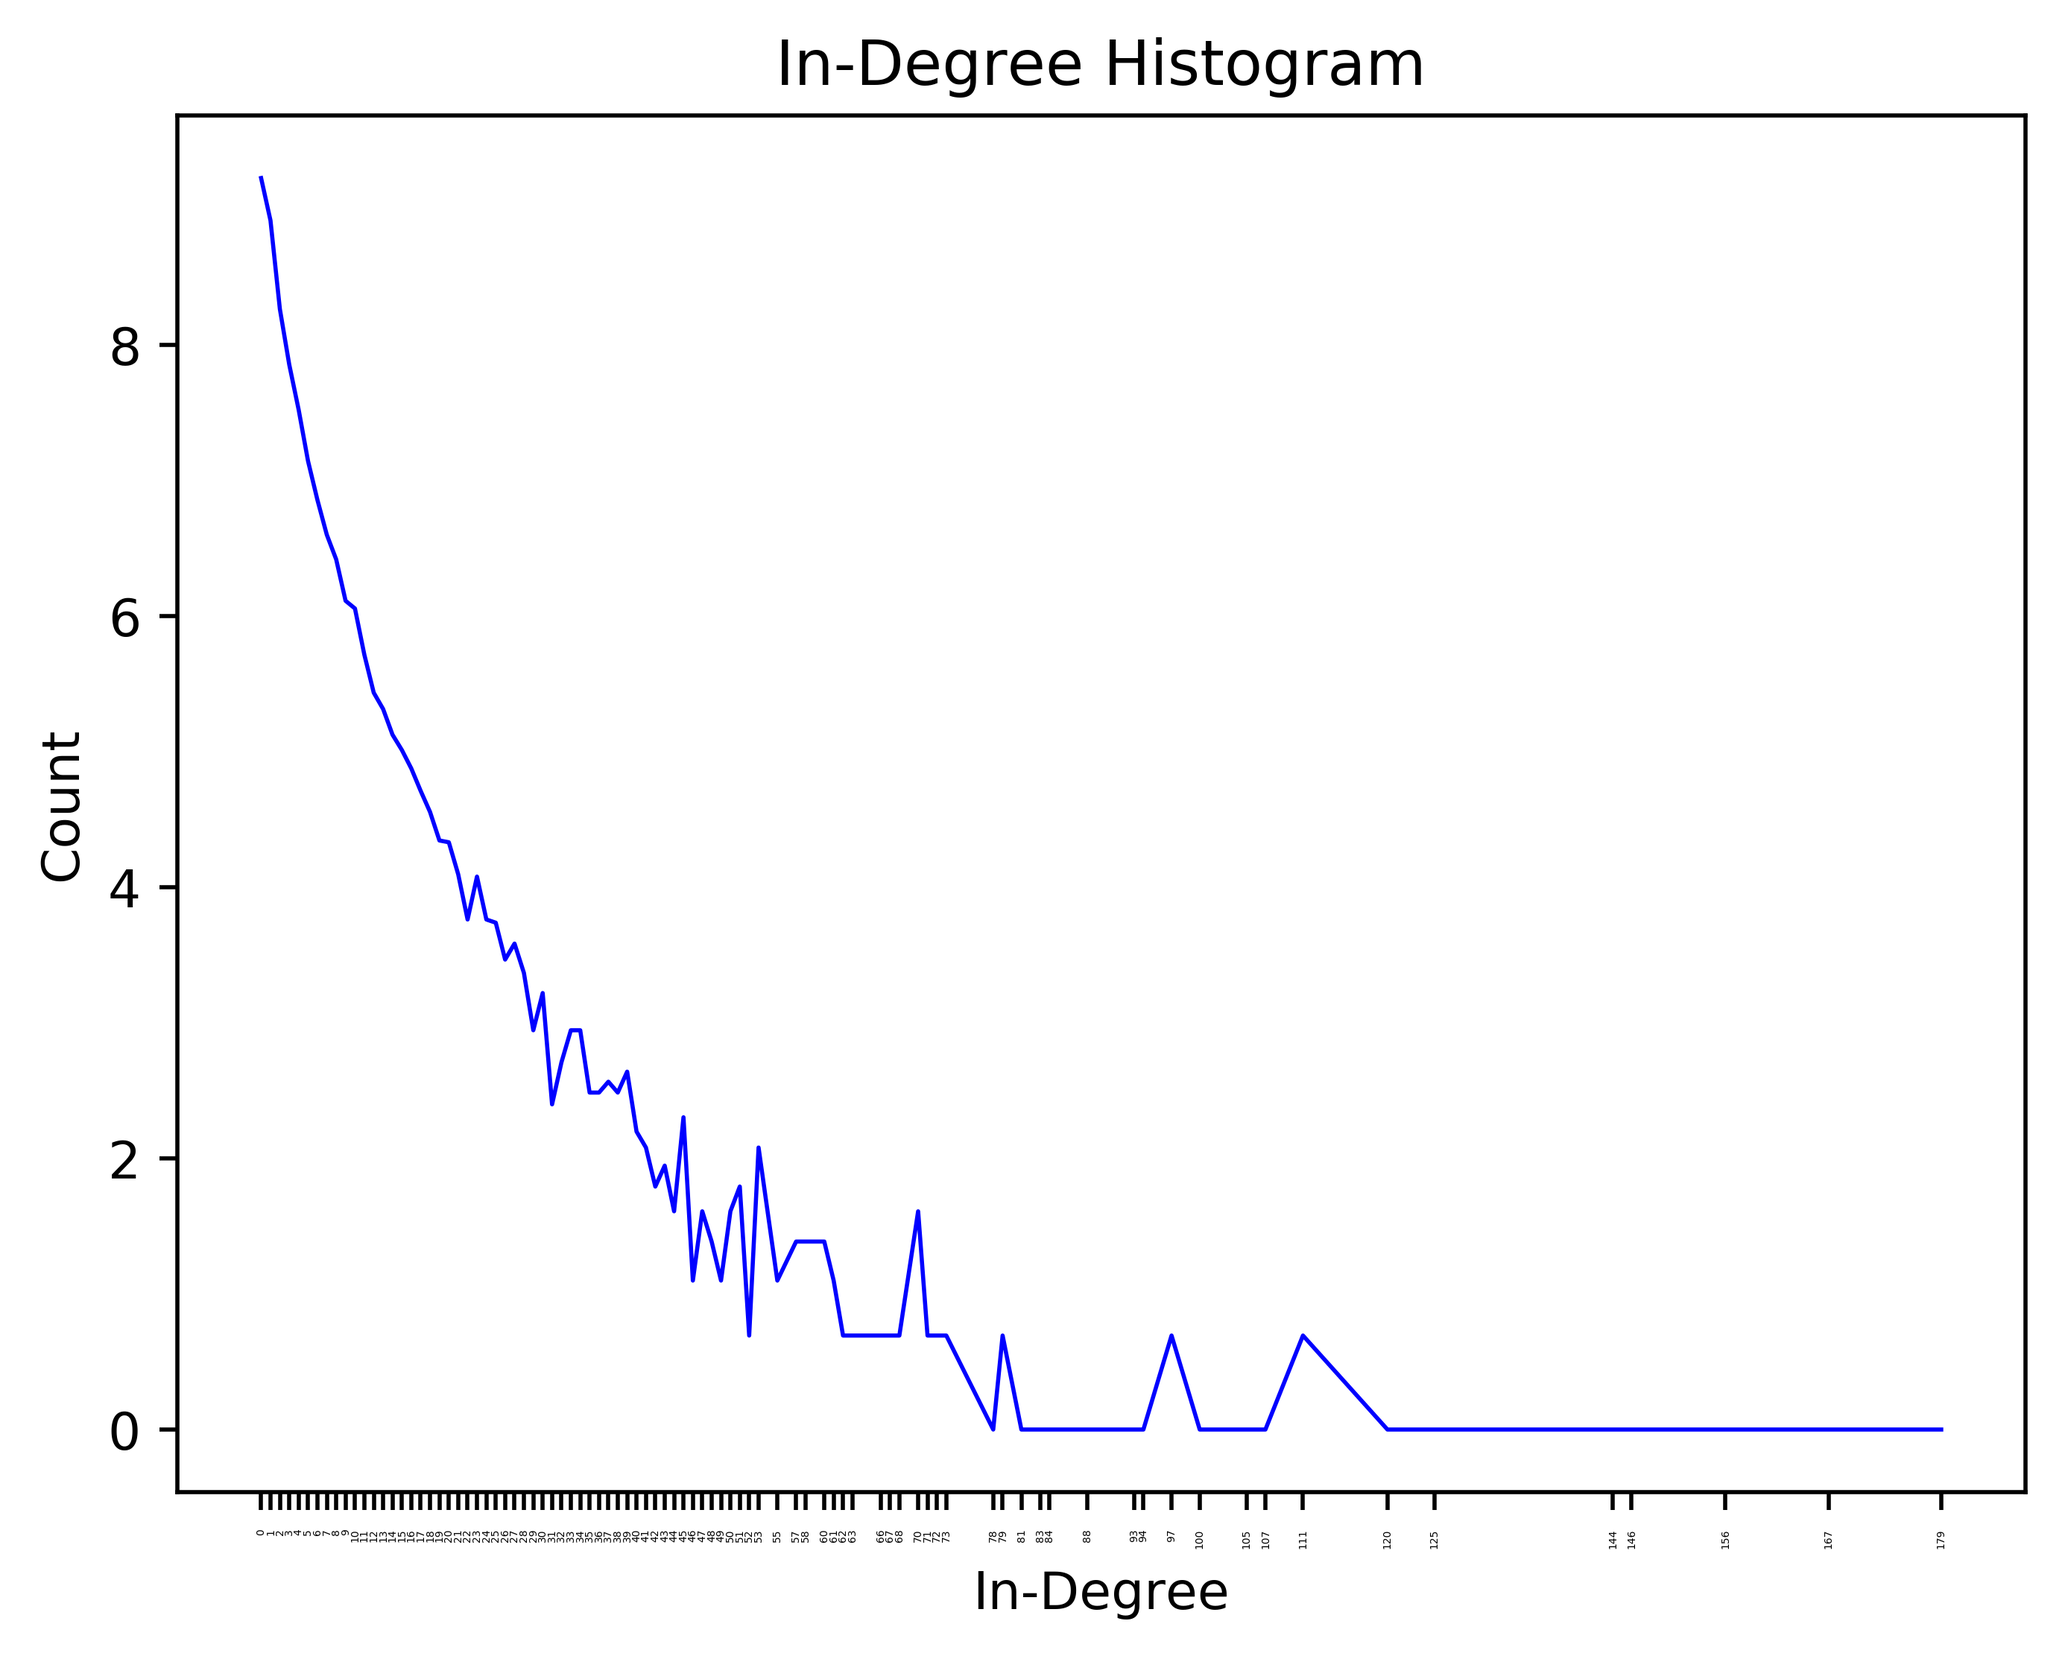
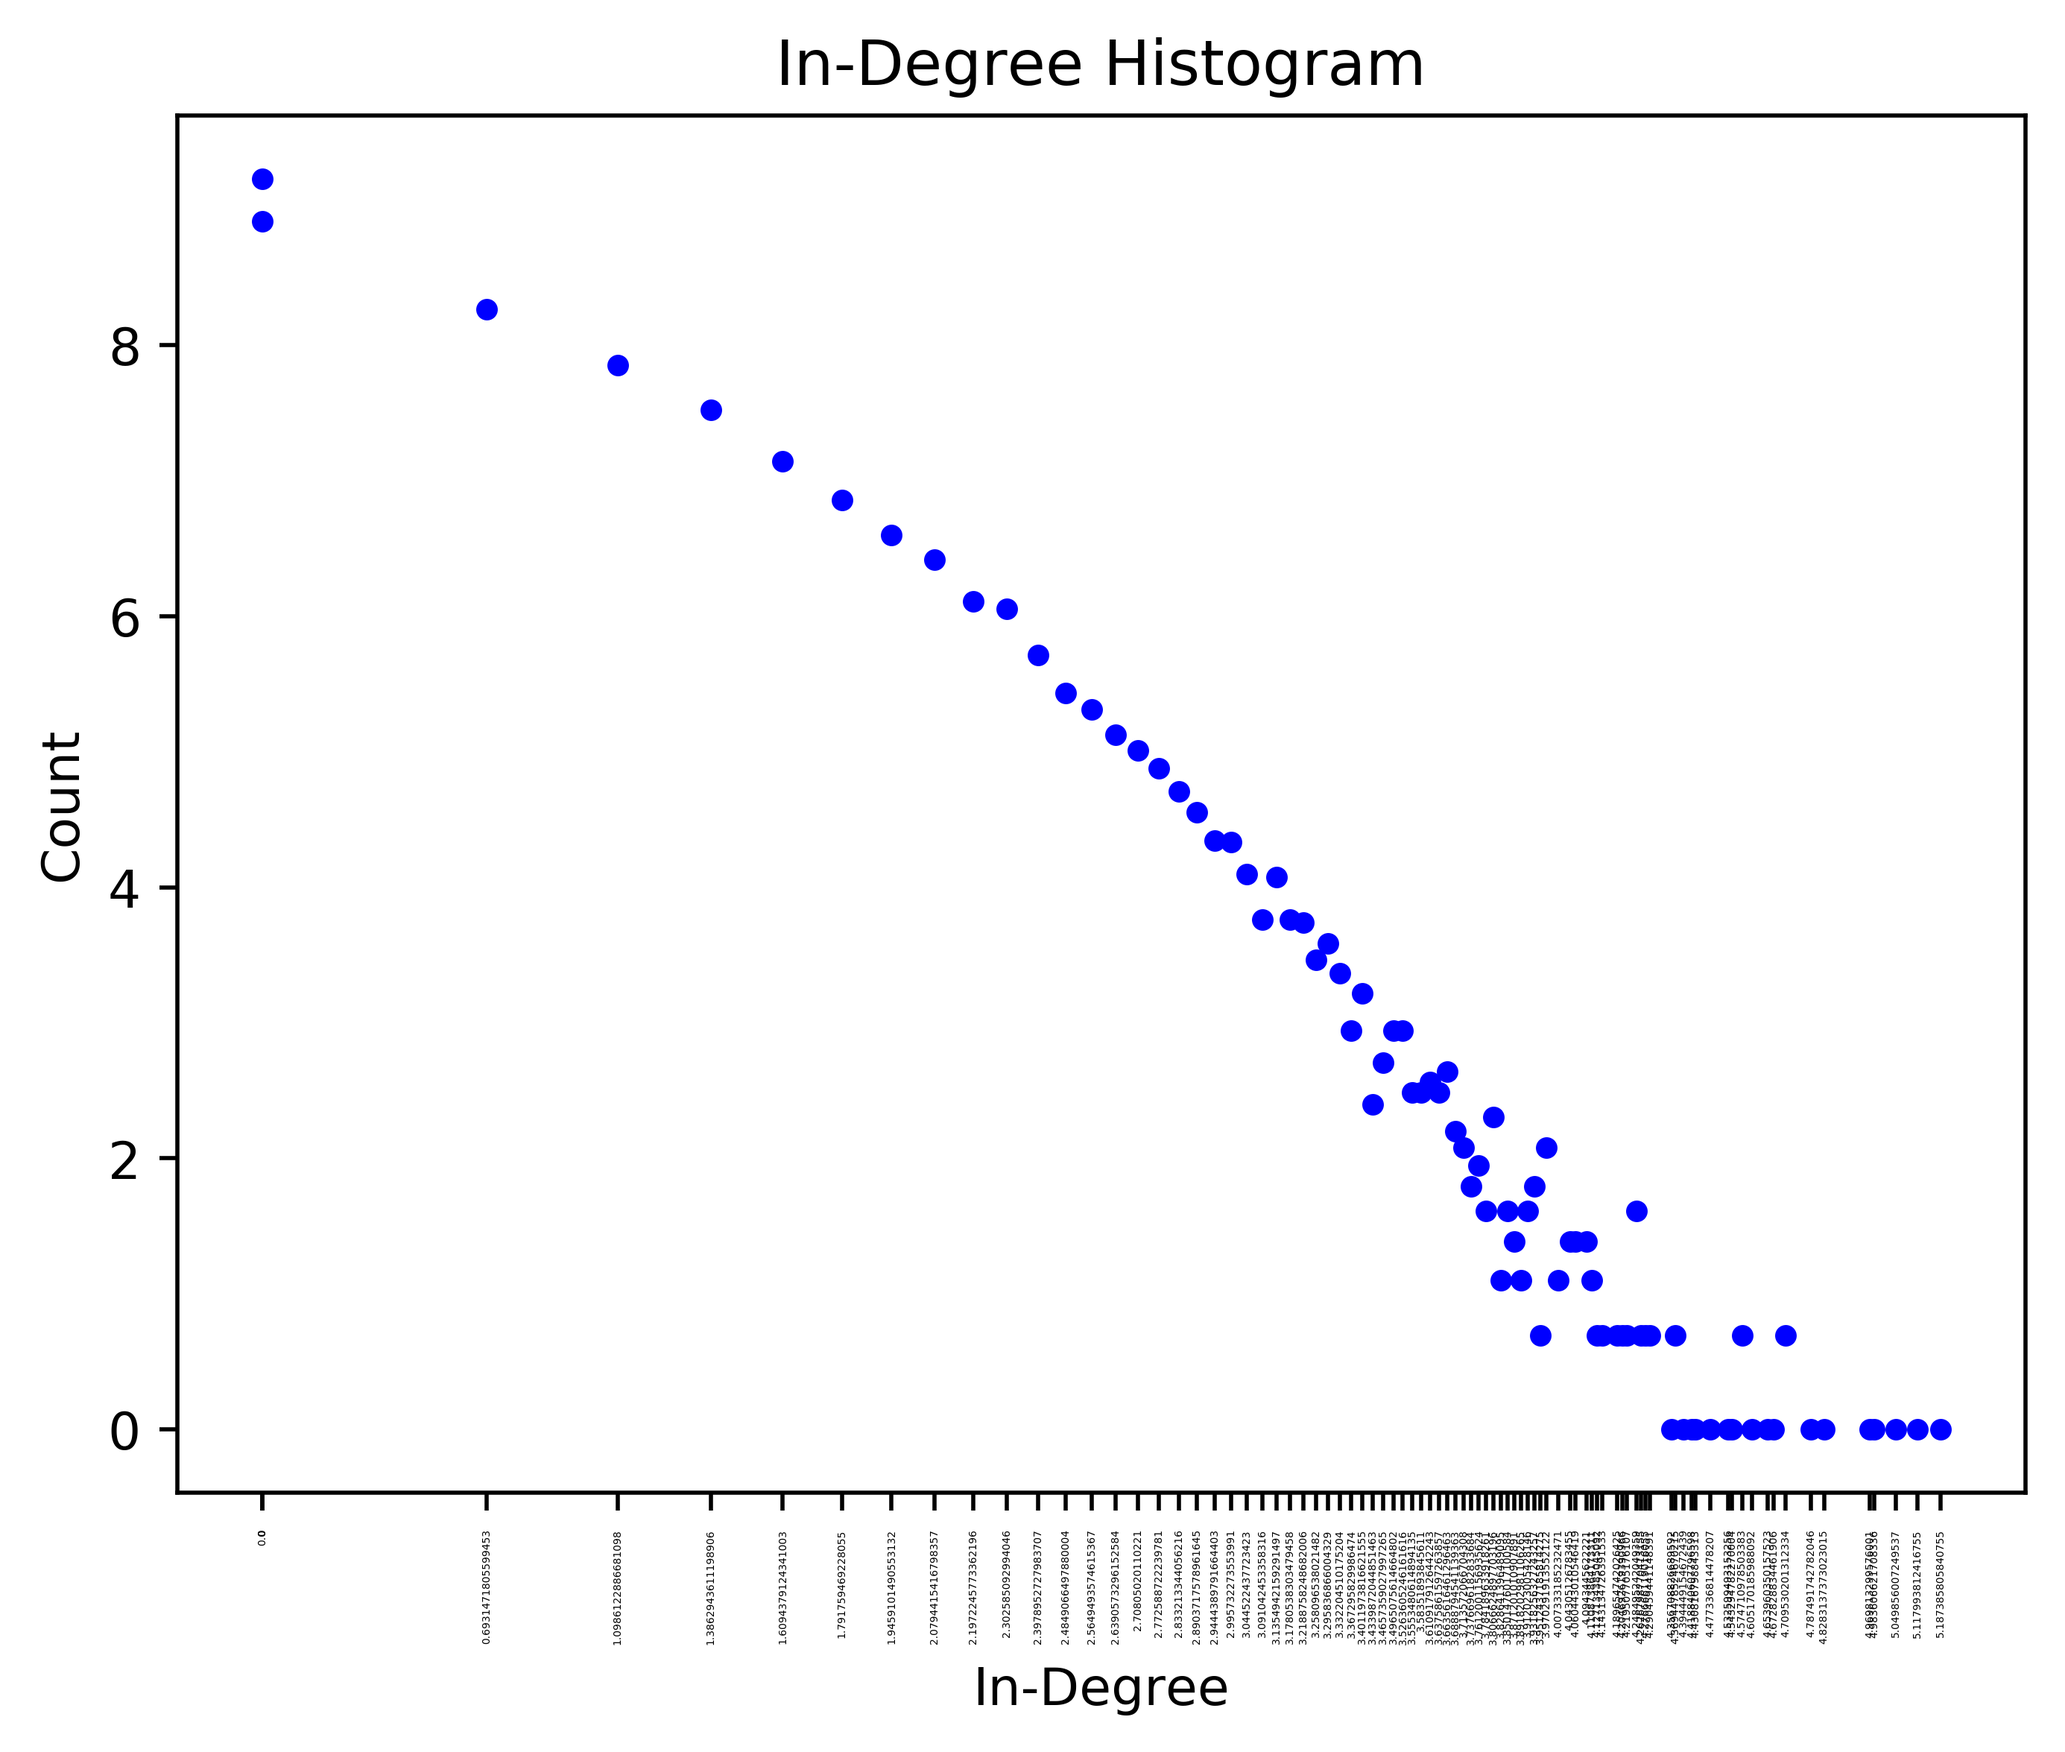
Actually fixes merge conflict

diff --git a/case_case.py b/case_case.py
@@ -24,51 +24,51 @@ print('Average out_degree', G.average_out_degree())
 # print_landmark_cases(custom_centrality, G, 'Custom centrality')
 # print_common_cases()
 
-# plot_distribution(fetch_log_scale(G.in_degree_distribution()), 'In-Degree', 'graph_plots/power_law_distribution/in_degree.png', fontSize=2, dpi=500, plot_type="line")
-# plot_distribution(fetch_log_scale(G.out_degree_distribution()), 'Out-Degree', 'graph_plots/power_law_distribution/out_degree.png', fontSize=2, dpi=500, plot_type="line")
+# plot_distribution(fetch_log_scale(G.in_degree_distribution()), 'In-Degree', 'graph_plots/power_law_distribution/in_degree.png', fontSize=2, dpi=500, plot_type="scatter")
+# plot_distribution(fetch_log_scale(G.out_degree_distribution()), 'Out-Degree', 'graph_plots/power_law_distribution/out_degree.png', fontSize=2, dpi=500, plot_type="scatter")
 
-unfrozen_graph = nx.Graph(G)
-unfrozen_graph.remove_edges_from(unfrozen_graph.selfloop_edges())
+# unfrozen_graph = nx.Graph(G)
+# unfrozen_graph.remove_edges_from(unfrozen_graph.selfloop_edges())
 
-core_number = nx.core_number(unfrozen_graph)
-core_number_sorted = sorted(core_number.items(), key=lambda kv: kv[1], reverse=True)[:50]
-for case_id, value in core_number_sorted:
-    print(case_id, "\t", CASE_ID_TO_NAME_MAPPING[case_id], "\t", value)
-print("k_core")
-k_core = nx.k_core(unfrozen_graph)
-# k_core_sorted = sorted(k_core.items(), key=lambda kv: kv[1], reverse=True)[:50]
-for _ in k_core.nodes():
-    print(_, "\t", CASE_ID_TO_NAME_MAPPING[_])
-print("k_shell")
-k_shell = nx.k_shell(unfrozen_graph)
-for _ in k_shell.nodes():
-    print(_, "\t", CASE_ID_TO_NAME_MAPPING[_])
-print("k_crust")
-k_crust = nx.k_crust(unfrozen_graph)
-for _ in k_crust.nodes():
-    print(_, "\t", CASE_ID_TO_NAME_MAPPING[_])
-print("k_corona")
-k_corona = nx.k_corona(unfrozen_graph, k=10)
-for _ in k_corona.nodes():
-    print(_, "\t", CASE_ID_TO_NAME_MAPPING[_])
+# core_number = nx.core_number(unfrozen_graph)
+# core_number_sorted = sorted(core_number.items(), key=lambda kv: kv[1], reverse=True)[:50]
+# for case_id, value in core_number_sorted:
+#     print(case_id, "\t", CASE_ID_TO_NAME_MAPPING[case_id], "\t", value)
+# print("k_core")
+# k_core = nx.k_core(unfrozen_graph)
+# # k_core_sorted = sorted(k_core.items(), key=lambda kv: kv[1], reverse=True)[:50]
+# for _ in k_core.nodes():
+#     print(_, "\t", CASE_ID_TO_NAME_MAPPING[_])
+# print("k_shell")
+# k_shell = nx.k_shell(unfrozen_graph)
+# for _ in k_shell.nodes():
+#     print(_, "\t", CASE_ID_TO_NAME_MAPPING[_])
+# print("k_crust")
+# k_crust = nx.k_crust(unfrozen_graph)
+# for _ in k_crust.nodes():
+#     print(_, "\t", CASE_ID_TO_NAME_MAPPING[_])
+# print("k_corona")
+# k_corona = nx.k_corona(unfrozen_graph, k=10)
+# for _ in k_corona.nodes():
+#     print(_, "\t", CASE_ID_TO_NAME_MAPPING[_])
 
-rich_club_coefficient = nx.rich_club_coefficient(unfrozen_graph, normalized=False)
-rich_club_sorted = sorted(rich_club_coefficient.items(), key=lambda kv: kv[1], reverse=True)
-min_degree = 116
-rich_club = list()
+# rich_club_coefficient = nx.rich_club_coefficient(unfrozen_graph, normalized=False)
+# rich_club_sorted = sorted(rich_club_coefficient.items(), key=lambda kv: kv[1], reverse=True)
+# min_degree = 116
+# rich_club = list()
 
-for case_id in unfrozen_graph:
-	if len(unfrozen_graph[case_id]) > min_degree:
-		rich_club.append(case_id)
-print([CASE_ID_TO_NAME_MAPPING[case_id] for case_id in rich_club])
+# for case_id in unfrozen_graph:
+# 	if len(unfrozen_graph[case_id]) > min_degree:
+# 		rich_club.append(case_id)
+# print([CASE_ID_TO_NAME_MAPPING[case_id] for case_id in rich_club])
 
-k_clique_communities = list(nx.algorithms.community.k_clique_communities(unfrozen_graph, k=8))
-# print(k_clique_communities)
+# k_clique_communities = list(nx.algorithms.community.k_clique_communities(unfrozen_graph, k=8))
+# # print(k_clique_communities)
 
-for k_clique in k_clique_communities:
-	print("\n")
-	for case_id in k_clique:
-		if case_id in CASE_ID_TO_FILE_MAPPING:
-			path = CASE_ID_TO_FILE_MAPPING[case_id]
-			subjects = find_subjects_for_case(path)
-			print(case_id,"\t", CASE_ID_TO_NAME_MAPPING[case_id],"\t", ", ".join(subjects))
+# for k_clique in k_clique_communities:
+# 	print("\n")
+# 	for case_id in k_clique:
+# 		if case_id in CASE_ID_TO_FILE_MAPPING:
+# 			path = CASE_ID_TO_FILE_MAPPING[case_id]
+# 			subjects = find_subjects_for_case(path)
+# 			print(case_id,"\t", CASE_ID_TO_NAME_MAPPING[case_id],"\t", ", ".join(subjects))

diff --git a/helpers.py b/helpers.py
@@ -4,12 +4,9 @@ from models.case import Case
 from models.legal_knowledge_graph import LegalKnowledgeGraph
 from globals import *
 import numpy as np
-<<<<<<< HEAD
 import math
-=======
 from scipy import stats
 from bs4 import BeautifulSoup
->>>>>>> f4bf764a0f8c565980dd4f8197b69167c87d43e1
 
 # TODO: complete this for tuple input (taken from out_degree_distibution()
 def plot_distribution(distribution, title="Default value", filename=None, fontSize=5, dpi=200, plot_type="bar"):
@@ -21,6 +18,8 @@ def plot_distribution(distribution, title="Default value", filename=None, fontSi
         plt.bar(degree, count, width=0.80, color='b')
     elif plot_type == "line":
         plt.plot(degree, count, linewidth=0.80, color='b')
+    elif plot_type == "scatter":
+        plt.scatter(degree, count, s=10.0, color='b')        
 
     plt.title("{} Histogram".format(title))
     plt.ylabel("Count")
@@ -129,8 +128,9 @@ def print_common_cases():
 def fetch_log_scale(distribution):
     log_distribution = []
     for (d,c) in distribution:
-        log_c = math.log(c)
-        log_distribution.append((d, log_c))
+        log_c = math.log(c) if c else c
+        log_d = math.log(d) if d else d
+        log_distribution.append((log_d, log_c))
     return(log_distribution)
 
 def find_subjects_for_case(file):
